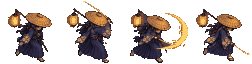
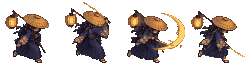
Steady idle, no escaping the crowd, faster frames, slower early levels
- import_sheet.py pins every frame on its torso and lowest foot (cell positions
  from the generator made the idle sway)
- Off-screen enemies move 4x to catch up; ones left 900+ behind re-enter around
  the player; far XP orbs vanish
- Culled props leave the display list (the per-frame depth sort was walking
  ~4600 objects, now ~330); fps text updates twice a second
- XP for level 2 is 20 (was 5), growth 1.2 per level

Claude-Session: https://claude.ai/code/session_01FhXkRA1dn9FU46gT4KBhKd

diff --git a/src/scenes/ArenaScene.ts b/src/scenes/ArenaScene.ts
@@ -170,6 +170,9 @@ export class ArenaScene extends Phaser.Scene implements EnemyWorld, ShikiWorld {
       ...shrineSpots.map((s) => ({ ...s, r: tuning.shrineRadius + 40 })),
       ...content.day.stage.landmarks.map((l) => ({ x: l.x, y: l.y, r: 160 })),
     ]);
+    // Props culled out of the display list aren't destroyed with the scene, so do it here.
+    const decor = this.stage.decor;
+    this.events.once(Phaser.Scenes.Events.SHUTDOWN, () => decor.forEach((d) => d.destroy()));
     this.buildShrines(shrineSpots);
 
     for (let i = 0; i < 2; i++) {
@@ -340,6 +343,7 @@ export class ArenaScene extends Phaser.Scene implements EnemyWorld, ShikiWorld {
       this.updateFamiliars(dt);
       this.updateProjectiles(dt);
       this.updatePickups(dt);
+      this.recycleEnemies();
       this.updateShrines(dt);
       this.resolveCollisions();
     }
@@ -448,6 +452,19 @@ export class ArenaScene extends Phaser.Scene implements EnemyWorld, ShikiWorld {
     const by = this.py + Math.sin(a) * tuning.spawnDistance;
     const n = def.groupSize ?? 1;
     for (let i = 0; i < n; i++) this.addEnemy(def, bx + (Math.random() - 0.5) * 80, by + (Math.random() - 0.5) * 80);
+  }
+
+  /** Enemies left far behind are moved back in around the player (bosses stay put). */
+  private recycleEnemies(): void {
+    const far = tuning.enemyRecycleDistance;
+    for (const e of this.enemies) {
+      if (e.isBoss || !e.alive || Math.hypot(e.x - this.px, e.y - this.py) < far) continue;
+      const a = Math.random() * Math.PI * 2;
+      const m = e.size / 2 + 14;
+      e.x = Phaser.Math.Clamp(this.px + Math.cos(a) * tuning.spawnDistance, m, ARENA.width - m);
+      e.y = Phaser.Math.Clamp(this.py + Math.sin(a) * tuning.spawnDistance, m, ARENA.height - m);
+      e.vx = e.vy = 0;
+    }
   }
 
   private spawnBoss(): void {
@@ -1055,6 +1072,11 @@ export class ArenaScene extends Phaser.Scene implements EnemyWorld, ShikiWorld {
         p.y += (dy / d) * s;
       }
     }
+    // Orbs left far behind are dropped, so they don't pile up across the big map.
+    const far = tuning.orbDespawnDistance;
+    for (const p of this.pickups) {
+      if (p.kind === 'xp' && !p.pulled && Math.hypot(p.x - this.px, p.y - this.py) > far) p.value = -1;
+    }
     this.pickups = this.pickups.filter((p) => {
       if (p.value < 0) p.rect.destroy();
       return p.value >= 0;
@@ -1239,12 +1261,18 @@ export class ArenaScene extends Phaser.Scene implements EnemyWorld, ShikiWorld {
     });
   }
 
-  /** The big map has well over a thousand props; only the ones near the camera are drawn. */
+  /**
+   * The big map has thousands of props. Only the ones near the camera stay in the display list:
+   * everything in the list is depth-sorted every frame (enemies move, so their depth changes),
+   * and sorting thousands of off-screen trees was costing frame rate.
+   */
   private cullDecor(): void {
     const v = this.cameras.main.worldView;
     const pad = 220;
     for (const d of this.stage.decor) {
-      d.setVisible(d.x > v.x - pad && d.x < v.right + pad && d.y > v.y - pad && d.y < v.bottom + pad + 120);
+      const near = d.x > v.x - pad && d.x < v.right + pad && d.y > v.y - pad && d.y < v.bottom + pad + 120;
+      if (near && !d.displayList) d.addToDisplayList();
+      else if (!near && d.displayList) d.removeFromDisplayList();
     }
   }
 

diff --git a/src/config/tuning.ts b/src/config/tuning.ts
@@ -87,6 +87,9 @@ const DEFS = {
   enemyWaitRadius: t(46, 20, 300, 2, 'Enemies', 'Wait ring distance'),
   crowdRadius: t(180, 50, 800, 10, 'Enemies', 'Start slowing within (units)'),
   crowdSpeedMult: t(0.5, 0.05, 1, 0.05, 'Enemies', 'Speed at the crowd (x)'),
+  catchUpDistance: t(520, 200, 1500, 10, 'Enemies', 'Off-screen beyond (units)'),
+  catchUpMult: t(4, 1, 6, 0.1, 'Enemies', 'Off-screen catch-up speed (x)'),
+  enemyRecycleDistance: t(900, 500, 3000, 50, 'Enemies', 'Left behind beyond: respawn near you'),
   enemyHitStun: t(0.25, 0, 1, 0.01, 'Enemies', 'Hit stun (s)'),
   enemyFriction: t(8, 1, 30, 0.5, 'Enemies', 'Knockback friction'),
   enemyHpMult: t(1, 0.1, 5, 0.05, 'Enemies', 'Enemy HP (x)'),
@@ -114,12 +117,13 @@ const DEFS = {
   marchShiftTime: t(90, 0, 300, 5, 'Spawns', 'March turns every (s, 0 = never)'),
 
   // XP and level-ups
-  xpBase: t(5, 1, 50, 1, 'Levels', 'XP for level 2'),
-  xpGrowth: t(1.16, 1, 2, 0.01, 'Levels', 'XP growth per level (x)'),
+  xpBase: t(20, 1, 100, 1, 'Levels', 'XP for level 2'),
+  xpGrowth: t(1.2, 1, 2, 0.01, 'Levels', 'XP growth per level (x)'),
   nightXpMult: t(2, 1, 5, 0.1, 'Levels', 'Night XP (x)'),
   pickupRadius: t(36, 10, 200, 2, 'Levels', 'Pickup pull radius'),
   pickupPullSpeed: t(520, 100, 1500, 20, 'Levels', 'Pickup pull speed'),
   maxOrbs: t(200, 20, 500, 10, 'Levels', 'Max XP orbs on ground'),
+  orbDespawnDistance: t(1400, 500, 4000, 50, 'Levels', 'XP orbs vanish beyond (units)'),
   offerCount: t(3, 1, 5, 1, 'Levels', 'Cards per level-up'),
   rerollsPerRun: t(2, 0, 10, 1, 'Levels', 'Rerolls per run'),
   pathLean: t(1.5, 0, 6, 0.1, 'Levels', 'Offer lean per path pick'),

diff --git a/src/scenes/HudScene.ts b/src/scenes/HudScene.ts
@@ -43,6 +43,8 @@ export class HudScene extends Phaser.Scene {
   private pauseDim!: Phaser.GameObjects.Rectangle;
   private pauseTitle!: Phaser.GameObjects.Text;
   private paused = false;
+  private fps = 60;
+  private fpsAt = 0;
 
   private stickId: number | null = null;
   private stickX = 0;
@@ -256,7 +258,12 @@ export class HudScene extends Phaser.Scene {
 
     const fmt = (s: number) => `${Math.floor(s / 60)}:${String(Math.floor(s % 60)).padStart(2, '0')}`;
     this.phaseText.setPosition(width / 2, 6).setText(`${status.phase.toUpperCase()} ${fmt(status.phaseLeft)}`);
-    this.info.setText(`Lv ${status.level}   HP ${status.hp}/${status.maxHp}   Kills ${status.kills}   ${Math.round(this.game.loop.actualFps)} fps`);
+    // Text is re-rendered to a texture whenever it changes, so the fps figure only updates twice a second.
+    if (this.time.now - this.fpsAt > 500) {
+      this.fpsAt = this.time.now;
+      this.fps = Math.round(this.game.loop.actualFps);
+    }
+    this.info.setText(`Lv ${status.level}   HP ${status.hp}/${status.maxHp}   Kills ${status.kills}   ${this.fps} fps`);
     this.hpBar.width = 160 * Math.max(0, status.hp / Math.max(1, status.maxHp));
     this.xpBar.width = 160 * Math.min(1, status.xp / Math.max(1, status.xpNext));
     const combo = status.combo > 0 ? `Combo ${status.combo}/4` : '';

diff --git a/src/game/enemies.ts b/src/game/enemies.ts
@@ -82,8 +82,11 @@ export class Enemy {
     return this.def.usesTokens ?? !['ranged', 'boss'].includes(this.def.behavior);
   }
 
+  /** Off-screen enemies hurry to catch up, so the player can't just outrun the parade. */
+  private farBoost = 1;
+
   get speed(): number {
-    return this.def.speed * tuning.enemySpeedMult * (this.slowT > 0 ? 1 - this.slowAmt : 1);
+    return this.def.speed * tuning.enemySpeedMult * this.farBoost * (this.slowT > 0 ? 1 - this.slowAmt : 1);
   }
 
   get damage(): number {
@@ -131,6 +134,7 @@ export class Enemy {
     const d = Math.hypot(dx, dy) || 1;
     const nx = dx / d;
     const ny = dy / d;
+    this.farBoost = d > tuning.catchUpDistance ? tuning.catchUpMult : 1;
 
     switch (this.def.behavior) {
       case 'swarmer':

diff --git a/scripts/gen/import_sheet.py b/scripts/gen/import_sheet.py
@@ -8,11 +8,11 @@ Usage:
 
 Each sheet is a row of equal frame cells on a flat background. The backdrop is removed along
 with anything painted onto it that would clash with the map: the drop shadow under the feet,
-glow haloes around light sources, and background trapped between limbs and props. Frames keep
-their own position inside their cell, so the motion drawn in the sheet (bob, step, lunge)
-survives; each animation as a whole is shifted so its median foot anchor lines up with the
-others, and everything is scaled by one shared factor so the character never changes size
-between animations. Output: one horizontal
+glow haloes around light sources, and background trapped between limbs and props. Every frame
+is pinned on its torso centre (horizontally) and its lowest foot (vertically): generators
+place frames inconsistently inside their cells, which made the idle sway, while pinning the
+torso keeps the body steady and lets legs, sleeves and props move. Everything is scaled by one
+shared factor so the character never changes size between animations. Output: one horizontal
 strip per animation in assets/day/characters/<name>-<anim>.png, plus frame size and anchor
 in assets/day/day.json under "sheets".
 """
@@ -87,10 +87,12 @@ def split_cells(img: Image.Image, n: int) -> list[Image.Image]:
 
 
 def anchor(mask: np.ndarray) -> tuple[float, float]:
+    """Torso centre (the middle band of the body, so legs, sleeves and props can move around it)
+    and the lowest foot."""
     ys, xs = np.nonzero(mask)
-    feet = ys.max()
-    low = ys > feet - (feet - ys.min()) * 0.35
-    return float(np.median(xs[low])), float(feet)
+    top, feet = ys.min(), ys.max()
+    band = (ys > top + (feet - top) * 0.45) & (ys < top + (feet - top) * 0.72)
+    return float(np.median(xs[band])), float(feet)
 
 
 def main(name: str, height: int, colours: str, specs: list[str]) -> None:
@@ -102,12 +104,7 @@ def main(name: str, height: int, colours: str, specs: list[str]) -> None:
             f, mask = clean_mask(f, 40)
             ax, ay = anchor(mask)
             ys, xs = np.nonzero(mask)
-            frames.append({"img": f, "ax": ax, "ay": ay, "x0": xs.min(), "x1": xs.max() + 1, "y0": ys.min()})
-        # One shift per animation (its median foot anchor), so motion inside the cells survives.
-        mx = float(np.median([f["ax"] for f in frames]))
-        my = float(np.median([f["ay"] for f in frames]))
-        for f in frames:
-            f["ox"], f["oy"] = mx, my
+            frames.append({"img": f, "ox": ax, "oy": ay, "x0": xs.min(), "x1": xs.max() + 1, "y0": ys.min()})
         anims.append((anim, frames))
     allf = [f for _, fs in anims for f in fs]
     left = max(f["ox"] - f["x0"] for f in allf)

diff --git a/docs/PIPELINE.md b/docs/PIPELINE.md
@@ -137,10 +137,10 @@ python scripts/gen/import_sheet.py <name> <height> <keep|day> <sheet.png>:<anim>
 
 Each sheet is cut into equal cells. The flat backdrop is removed together with anything
 painted onto it that would clash with the map: the drop shadow under the feet, glow haloes
-around lights, and backdrop trapped between limbs and props. Frames keep their own position
-inside their cell (so the drawn bob and stride survive); each animation is shifted as a whole
-so its median foot anchor lines up with the others, and everything is scaled by one shared
-factor, so the character never jumps or changes size between animations. `keep` keeps the artist's colours
+around lights, and backdrop trapped between limbs and props. Every frame is pinned on its
+torso centre and lowest foot (generators place frames inconsistently inside their cells, which
+made the idle sway), and everything is scaled by one shared factor, so the character never
+jumps or changes size between animations. `keep` keeps the artist's colours
 (a shared 32-colour palette); `day` snaps to the day palette. Strips land in
 `assets/day/characters/<name>-<anim>.png` and are listed under `sheets` in `day.json`; point
 the character's `animations` at them (`docs/SCHEMAS.md`).

diff --git a/docs/SPEC.md b/docs/SPEC.md
@@ -230,3 +230,5 @@ The project folder holds this spec, the locked palette, API keys with the ordere
   packing a tight ring around the player (attack tokens still limit how many strike at once).
   The day map is much larger (12,000 units square, nine times the old area) with dense prop
   sections (forest, village, rocky hills). The attack lunge and dodge roll are short.
+  You can't escape the parade: enemies off screen hurry to catch up, and ones left far behind
+  re-enter around you. XP needs are steeper to match the bigger crowds.
